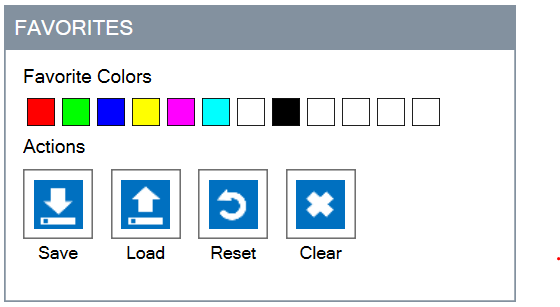
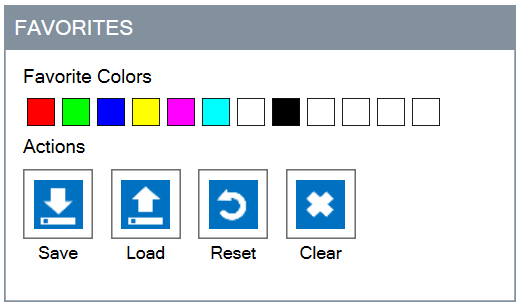
Fix sizes of images on Colors Lab

diff --git a/_docs/colors-lab.md b/_docs/colors-lab.md
@@ -3,7 +3,7 @@ layout: docs
 title: Colors Lab
 ---
 
-<img class="box-shadow" src="{{ site.baseurl }}/img/docs/colors-lab/colors-lab-1.png">
+<img class="box-shadow" src="{{ site.baseurl }}/img/docs/colors-lab/colors-lab-1.png" width="250">
 
 **Colors Lab** allows you to easily apply colors to text and shapes in your presentation, as well as find sets of matching colors to use. To access it, just click the `Colors Lab` button on the ribbon:
 
@@ -11,13 +11,13 @@ title: Colors Lab
 
 To select a different color, click on the colored square under the 'General' section to open the color picker.
 
-<img class="box-shadow" src="{{ site.baseurl }}/img/docs/colors-lab/colors-lab-3.png">
+<img class="box-shadow" src="{{ site.baseurl }}/img/docs/colors-lab/colors-lab-3.png" width="300">
 
-<img class="box-shadow" src="{{ site.baseurl }}/img/docs/colors-lab/colors-lab-4.png">
+<img class="box-shadow" src="{{ site.baseurl }}/img/docs/colors-lab/colors-lab-4.png" width="500">
 
 You can also fine-tune your choice by using the Brightness and Contrast sliders.
 
-<img class="box-shadow" src="{{ site.baseurl }}/img/docs/colors-lab/colors-lab-5.png">
+<img class="box-shadow" src="{{ site.baseurl }}/img/docs/colors-lab/colors-lab-5.png" width="300">
 
 Alternatively, you can click and drag from the 'Eyedropper' button to the color you wish to select. This is useful for selecting a color that is already part of the presentation.
 
@@ -36,13 +36,13 @@ Alternatively, clicking on the button will bring up the color picker to choose a
 
 You can use the Colors Lab to create entire color schemes from just a single color. Five different schemes are generated and shown in the `Matching Colors` section.
 
-<img class="box-shadow" src="{{ site.baseurl }}/img/docs/colors-lab/colors-lab-6.png">
+<img class="box-shadow" src="{{ site.baseurl }}/img/docs/colors-lab/colors-lab-6.png" width="300">
 
 You can drag and drop the colors you like to the Favorites palette, which can then be saved for later use.
 
 ### <a class="anchor-bookmark" id="save-load-fav-colors"></a> Saving and Loading Favorite Colors
 
-<img class="box-shadow" src="{{ site.baseurl }}/img/docs/colors-lab/colors-lab-7.png">
+<img class="box-shadow" src="{{ site.baseurl }}/img/docs/colors-lab/colors-lab-7.png" width="300">
 
 The four buttons below the Favorite Color palette can be used to save, load, restore, and clear it respectively.
 
